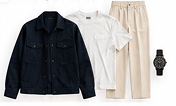
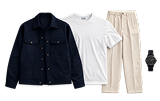
Refactor code structure for improved readability and maintainability

diff --git a/src/components/store/PromoBanner.js b/src/components/store/PromoBanner.js
@@ -24,7 +24,7 @@ const BANNERS = [
     id: '2',
     title: 'New\nCollection ✨',
     subtitle: 'Discover the latest trends\nfor this season.',
-    image: IMAGES.ONBOARDING_TWO,
+    image: IMAGES.PICK,
   },
 ];
 

diff --git a/src/config/endpoints.js b/src/config/endpoints.js
@@ -17,7 +17,7 @@ export const ENDPOINTS = {
   GET_AVATAR:"/avatars",
   VIRTUAL_TRYON:"/virtual-tryon",
   VIRTUAL_TRYON_OUTFIT:"/virtual-tryon/outfit",
-  LATEST_TRYON:"/users/latest-tryon"
+  LATEST_TRYON:"/users/latest-tryon",
   ANALYZE:"/analyze",
   SAVETOWARDROBE:'/wardrobe/from-analysis',
   WARDROBE:"/wardrobe",